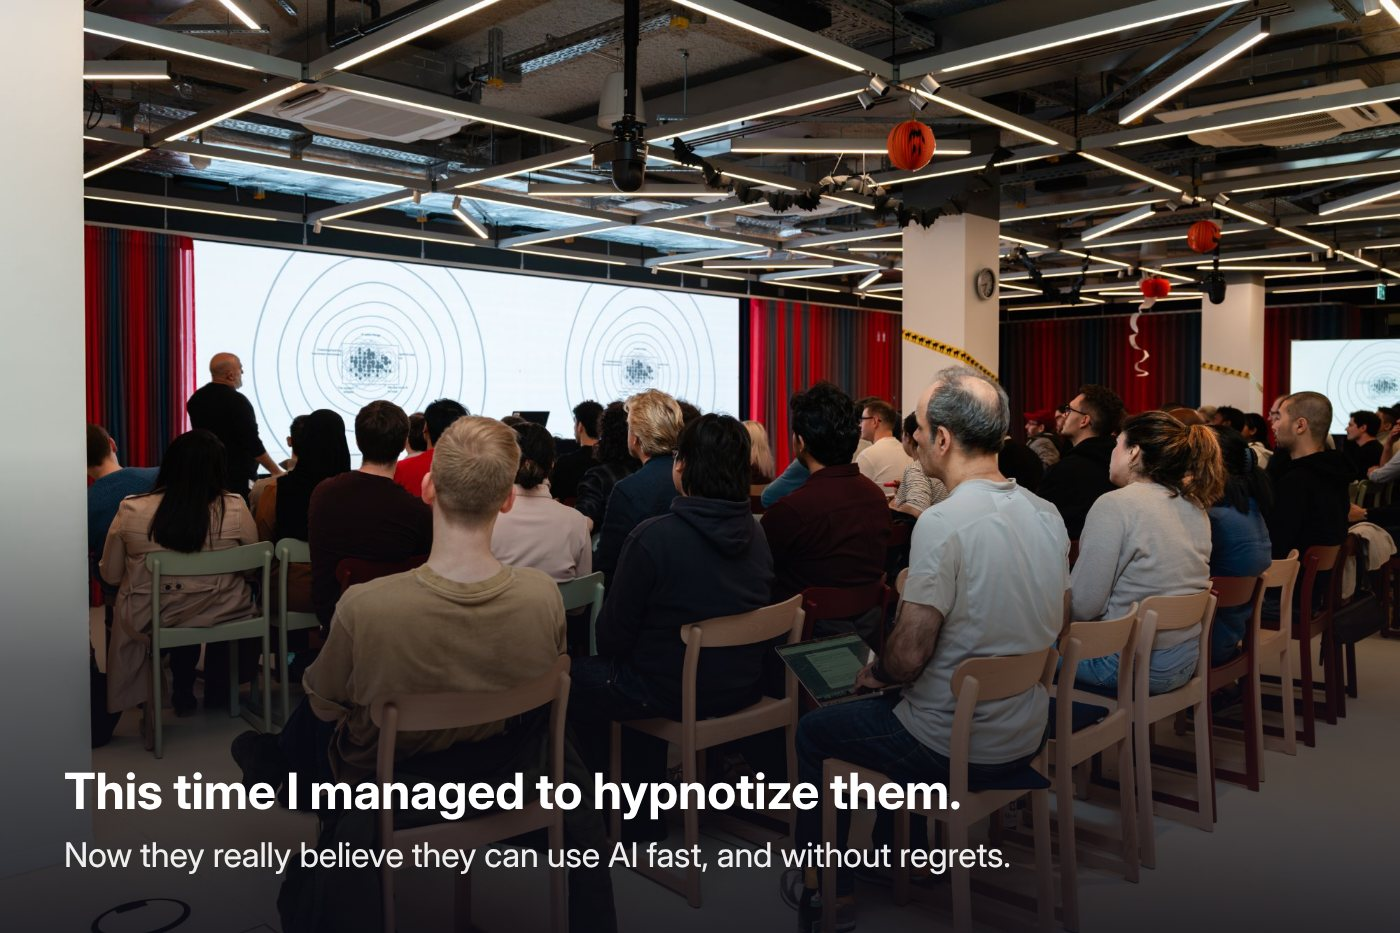
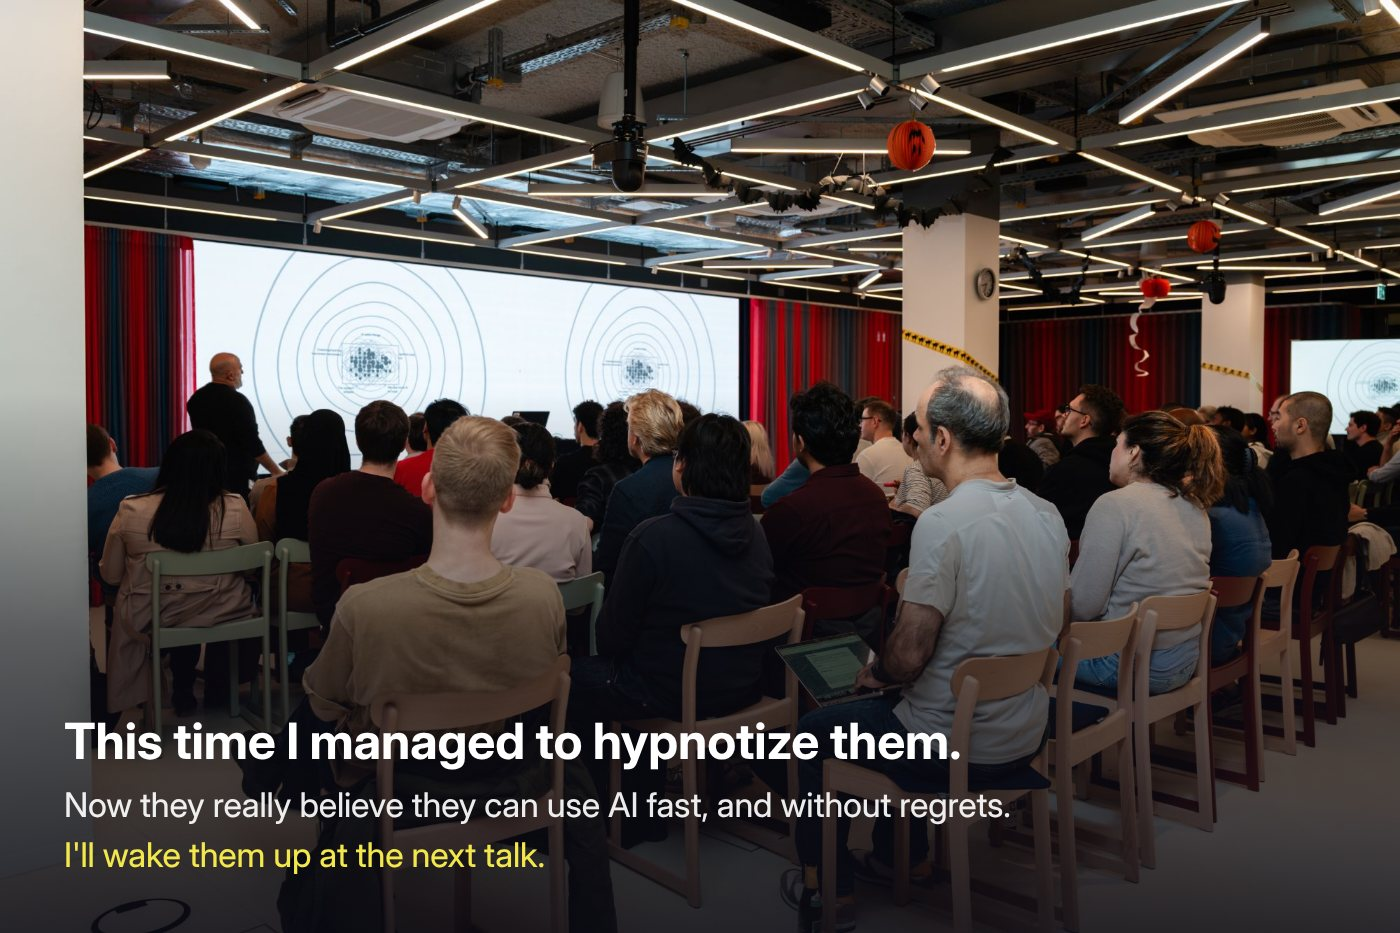
Wake the hypnotized room up at the next talk (#18)
The label on the room's photo gets its punchline, in yellow: "I'll wake them up at the
next talk." The alt text says it too.

Claude-Session: https://claude.ai/code/session_01AyeoKRpynM3CGAhZdiSgVE

diff --git a/src/posts/how-to-ship-code-fast-with-ai.md b/src/posts/how-to-ship-code-fast-with-ai.md
@@ -32,7 +32,7 @@ From there the talk went looking for answers. We talked about tooling and govern
 And in the end, it turns out we can unstrike the title. Somehow, and with realistic expectations: **How to ship code fast with AI without paying for it later**. After all, it's possible to be <mark>a bit faster</mark>, and to have <mark>fewer regrets</mark>.
 
 <figure>
-<img src="/assets/images/buildersklub-hypnotized.jpg" width="1400" height="933" alt="The room at buildersklub from the back, everyone watching the loop's spiral on the big screens. On it: This time I managed to hypnotize them. Now they really believe they can use AI fast, and without regrets.">
+<img src="/assets/images/buildersklub-hypnotized.jpg" width="1400" height="933" alt="The room at buildersklub from the back, everyone watching the loop's spiral on the big screens. On it: This time I managed to hypnotize them. Now they really believe they can use AI fast, and without regrets. I'll wake them up at the next talk.">
 <figcaption>Photo: buildersklub</figcaption>
 </figure>
 
